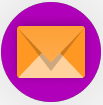
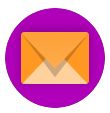
Update

Changed region(s): [[0.0, 0.0, 0.9903, 0.9714], [0.4369, 0.5429, 0.466, 0.5714]]

diff --git a/src/components/NavBar.jsx b/src/components/NavBar.jsx
@@ -46,7 +46,11 @@ function NavBar({ refToLastComp }) {
             onClick={showSidebar}
             data-collapse-toggle="mobile-menu"
             type="button"
-            class="inline-flex justify-center items-center mr-8 text-gray-400 rounded-lg md:hidden hover:text-cyan-900 focus:outline-none focus:ring-2 focus:ring-blue-300 dark:text-gray-400 dark:hover:text-white dark:focus:ring-gray-500"
+            class={
+              sidebar
+                ? "hidden"
+                : "inline-flex justify-center items-center mr-8 text-gray-400 rounded-lg md:hidden hover:text-cyan-900 focus:outline-none focus:ring-2 focus:ring-blue-300 dark:text-gray-400 dark:hover:text-white dark:focus:ring-gray-500"
+            }
             aria-controls="mobile-menu-2"
             aria-expanded="false"
           >
@@ -98,7 +102,7 @@ function NavBar({ refToLastComp }) {
                       <img
                         src={require("../files/resources/icon_contact.png")}
                         alt="contact"
-                        className="w-10 h-10 bg-transparent"
+                        className="w-8 h-8 bg-transparent"
                       />
                     }
                     time={15}
@@ -118,7 +122,7 @@ function NavBar({ refToLastComp }) {
         }
         aria-label="Sidebar"
       >
-        <div class="flex overflow-y-auto py-4 px-3 bg-gray-50 rounded dark:bg-gray-800 h-screen w-full">
+        <div class="flex sticky top-0 z-50 overflow-y-auto py-4 px-3 bg-gray-50 rounded dark:bg-gray-800 h-screen w-full">
           <ul class="space-y-2 w-full">
             {/* Back Button */}
             <div className="flex justify-end" onClick={showSidebar}>
@@ -180,7 +184,7 @@ function NavBar({ refToLastComp }) {
             </li>
             <li className="flex justify-start align-middle h-20">
               <a
-                href="/c"
+                href="mailto:alen@alenjojo.com"
                 class="flex items-center p-2 text-base font-normal text-gray-900 rounded-lg dark:text-white hover:bg-gray-100 dark:hover:bg-gray-700"
               >
                 <span class="flex-1 ml-3 text-lg whitespace-nowrap">

diff --git a/src/components/Body.jsx b/src/components/Body.jsx
@@ -12,15 +12,15 @@ function Body() {
     >
       <div className="left-[3%] -z-10 absolute text-left items-stretch bg-grey-lighter h-fit ssm:top-[15%] sm:top-[30%]">
         <div className="sssm:flex-col md:flex">
-          <div className="font-bold text-orange-400 lg:text-7xl md:text-5xl sm:text-5xl ssm:text-5xl">
+          <div className="font-bold text-orange-400 lg:text-7xl md:text-6xl sm:text-6xl ssm:text-6xl sssm:text-5xl">
             <AnimatedText data="I build things for" time={11} />
           </div>
-          <div className="font-bold text-transparent bg-gradient-to-r bg-clip-text from-green-400 to-blue-700 lg:text-7xl md:text-5xl sm:text-5xl ssm:text-5xl ssm:break-normal">
+          <div className="font-bold text-transparent bg-gradient-to-r bg-clip-text from-green-400 to-blue-700 lg:text-7xl md:text-6xl sm:text-6xl ssm:text-6xl sssm:text-5xl ssm:break-normal">
             <AnimatedText data="&nbsp;EVERY THING." time={11} />
           </div>
         </div>
         <br></br>
-        <div className="text-lg text-gray-700 lg:w-[55%] md:w-[70%] ssm:mt-[5%] ssm:mx-[5%] ssm:break-words">
+        <div className="text-lg text-gray-700 lg:w-[55%] md:w-[70%] ssm:mt-[5%] ssm:mx-[10%] ssm:break-words">
           <AnimatedText
             data="Hands-on and comprehensive knowledge of platform development enterprise architecture
           ,Quick Learner agile methodologies and web-based applications. Innovative change with a

diff --git a/src/components/About.jsx b/src/components/About.jsx
@@ -13,14 +13,21 @@ const About = forwardRef((props, ref) => {
       <div className="ssm:flex-col sm:flex">
         {/* Left Col */}
         <div className="w-min ml-[10%] ssm:ml-[25%]">
+          {/* Barcode */}
           <div className="text-orange-400 tracking-widest flex-col w-fit -z-1 sm:mt-[-30%] lg:text-2xl">
             <a href="mailto:alen@alenjojo.com">alen@alenjojo.com</a>
-            {/* Barcode */}
-            <img
-              src={require("../files/resources/about_barcode.png")}
-              alt="barcode"
-              className="h-[50%] w-fit"
-            />
+            <div className="relative">
+              <img
+                src={require("../files/resources/about_barcode.png")}
+                alt="barcode"
+                className="h-[50%] w-fit"
+              />
+              <img
+                src={require("../files/resources/myphoto.png")}
+                alt="barcode"
+                className="w-fit absolute bottom-0"
+              />
+            </div>
           </div>
         </div>
         {/* Right Col */}
